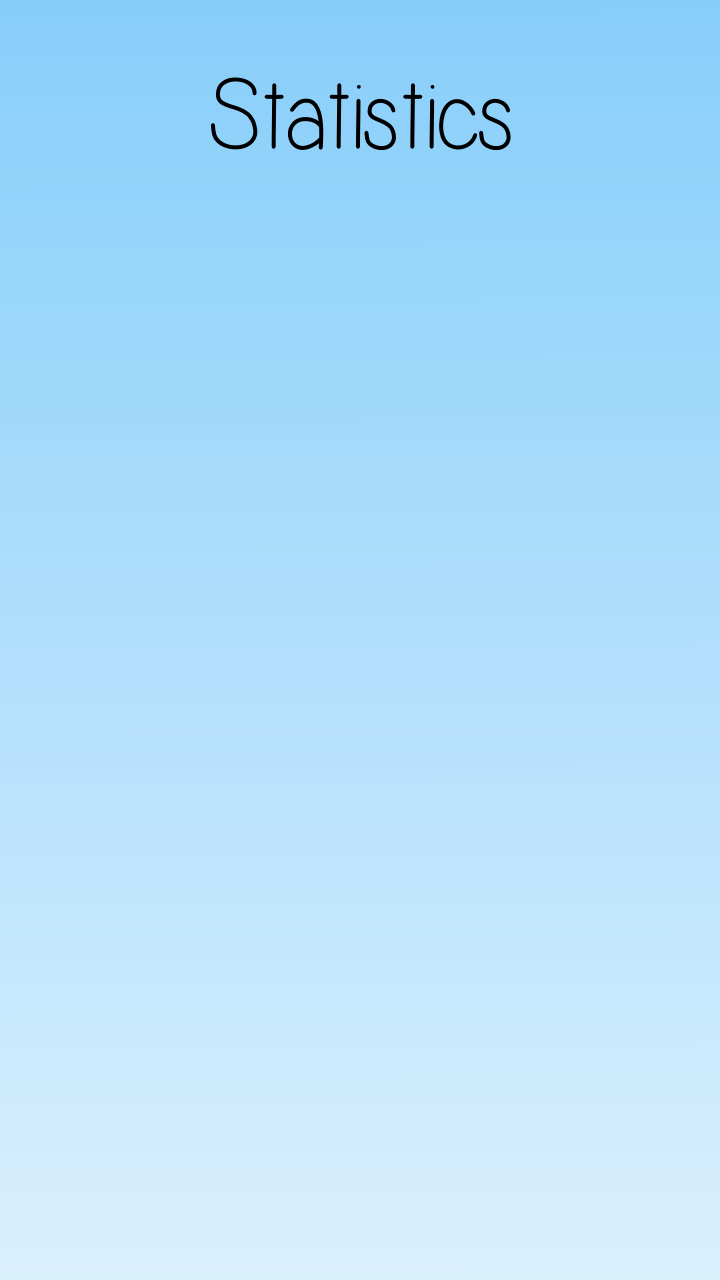
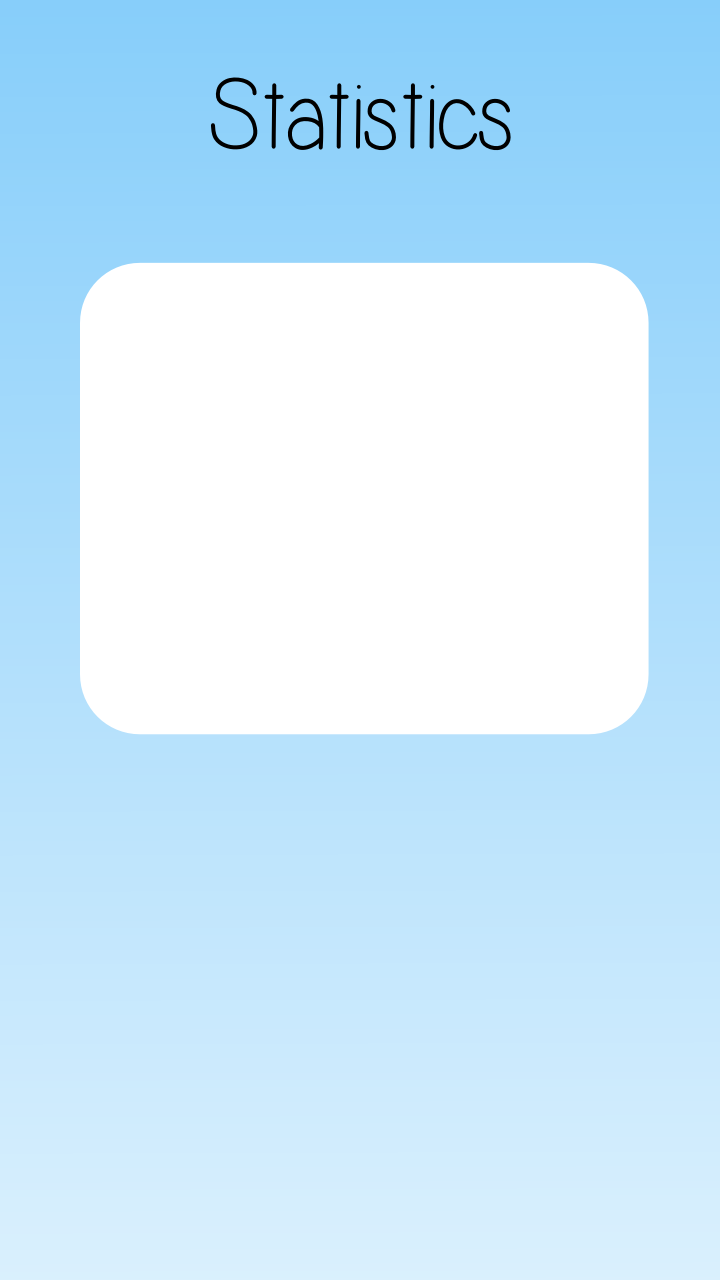
Mejorada statistics y shop scenes

Changed region(s): [[0.0917, 0.1875, 0.9167, 0.5938]]

diff --git a/ParachuteAction/src/com/lucianosimo/parachuteaction/manager/ResourcesManager.java b/ParachuteAction/src/com/lucianosimo/parachuteaction/manager/ResourcesManager.java
@@ -86,9 +86,9 @@ public class ResourcesManager {
 	
 	//Statistics items
 	public ITextureRegion statistics_background_region;
-	public ITextureRegion menu_from_statistics_region;
-	public ITextureRegion achievements_region;
-	public ITextureRegion resetStatistics_region;	
+	public ITextureRegion statistics_menu_button_region;
+	public ITextureRegion statistics_achievements_button_region;
+	public ITextureRegion statistics_reset_statistics_button_region;	
 	private BuildableBitmapTextureAtlas statisticsTextureAtlas;
 	private BuildableBitmapTextureAtlas backgroundStatisticsTextureAtlas;
 	
@@ -513,12 +513,12 @@ public class ResourcesManager {
 	private void loadStatisticsGraphics() {
 		BitmapTextureAtlasTextureRegionFactory.setAssetBasePath("gfx/statistics/");
 		backgroundStatisticsTextureAtlas = new BuildableBitmapTextureAtlas(activity.getTextureManager(), 720, 1280, TextureOptions.BILINEAR);
-		statisticsTextureAtlas = new BuildableBitmapTextureAtlas(activity.getTextureManager(), 500, 500, TextureOptions.BILINEAR);
+		statisticsTextureAtlas = new BuildableBitmapTextureAtlas(activity.getTextureManager(), 1024, 1024, TextureOptions.BILINEAR);
 		
 		statistics_background_region = BitmapTextureAtlasTextureRegionFactory.createFromAsset(backgroundStatisticsTextureAtlas, activity, "statistics_background.png");
-		menu_from_statistics_region = BitmapTextureAtlasTextureRegionFactory.createFromAsset(statisticsTextureAtlas, activity, "menu_button.png");
-		achievements_region = BitmapTextureAtlasTextureRegionFactory.createFromAsset(statisticsTextureAtlas, activity, "achievements_button.png");
-		resetStatistics_region = BitmapTextureAtlasTextureRegionFactory.createFromAsset(statisticsTextureAtlas, activity, "reset_statistics.png");
+		statistics_menu_button_region = BitmapTextureAtlasTextureRegionFactory.createFromAsset(statisticsTextureAtlas, activity, "statistics_menu_button.png");
+		statistics_achievements_button_region = BitmapTextureAtlasTextureRegionFactory.createFromAsset(statisticsTextureAtlas, activity, "statistics_achievements_button.png");
+		statistics_reset_statistics_button_region = BitmapTextureAtlasTextureRegionFactory.createFromAsset(statisticsTextureAtlas, activity, "statistics_reset_statistics_button.png");
 		
 		try {
 			this.statisticsTextureAtlas.build(new BlackPawnTextureAtlasBuilder<IBitmapTextureAtlasSource, BitmapTextureAtlas>(0, 1, 0));
@@ -545,15 +545,15 @@ public class ResourcesManager {
 		final ITexture antigravityCounterTexture = new BitmapTextureAtlas(activity.getTextureManager(), 256, 256, TextureOptions.BILINEAR_PREMULTIPLYALPHA);
 		final ITexture shieldCounterTexture = new BitmapTextureAtlas(activity.getTextureManager(), 256, 256, TextureOptions.BILINEAR_PREMULTIPLYALPHA);
 		final ITexture slowCounterTexture = new BitmapTextureAtlas(activity.getTextureManager(), 256, 256, TextureOptions.BILINEAR_PREMULTIPLYALPHA);
-		numberOfSuccessfulJumpsFont = FontFactory.createStrokeFromAsset(activity.getFontManager(), numberOfSuccessfulJumpsTexture, activity.getAssets(), "simple.ttf", 30, true, Color.BLACK_ARGB_PACKED_INT, 0.1f, Color.BLACK_ARGB_PACKED_INT);
-		numberOfUnsuccessfulJumpsFont = FontFactory.createStrokeFromAsset(activity.getFontManager(), numberOfUnsuccessfulJumpsTexture, activity.getAssets(), "simple.ttf", 30, true, Color.BLACK_ARGB_PACKED_INT, 0.1f, Color.BLACK_ARGB_PACKED_INT);
-		maxFliedMetersFont = FontFactory.createStrokeFromAsset(activity.getFontManager(), maxFliedMetersTexture, activity.getAssets(), "simple.ttf", 30, true, Color.BLACK_ARGB_PACKED_INT, 0.1f, Color.BLACK_ARGB_PACKED_INT);
-		freeFliedMetersFont  = FontFactory.createStrokeFromAsset(activity.getFontManager(), freeFliedMetersTexture, activity.getAssets(), "simple.ttf", 30, true, Color.BLACK_ARGB_PACKED_INT, 0.1f, Color.BLACK_ARGB_PACKED_INT);
-		parachuteFliedMetersFont = FontFactory.createStrokeFromAsset(activity.getFontManager(), parachuteFliedMetersTexture, activity.getAssets(), "simple.ttf", 30, true, Color.BLACK_ARGB_PACKED_INT, 0.1f, Color.BLACK_ARGB_PACKED_INT);
-		upperImpulseCounterFont = FontFactory.createStrokeFromAsset(activity.getFontManager(), upperImpulseCounterTexture, activity.getAssets(), "simple.ttf", 30, true, Color.BLACK_ARGB_PACKED_INT, 0.1f, Color.BLACK_ARGB_PACKED_INT); 
-		antigravityCounterFont = FontFactory.createStrokeFromAsset(activity.getFontManager(), antigravityCounterTexture, activity.getAssets(), "simple.ttf", 30, true, Color.BLACK_ARGB_PACKED_INT, 0.1f, Color.BLACK_ARGB_PACKED_INT);
-		shieldCounterFont = FontFactory.createStrokeFromAsset(activity.getFontManager(), shieldCounterTexture, activity.getAssets(), "simple.ttf", 30, true, Color.BLACK_ARGB_PACKED_INT, 0.1f, Color.BLACK_ARGB_PACKED_INT);
-		slowCounterFont = FontFactory.createStrokeFromAsset(activity.getFontManager(), slowCounterTexture, activity.getAssets(), "simple.ttf", 30, true, Color.BLACK_ARGB_PACKED_INT, 0.1f, Color.BLACK_ARGB_PACKED_INT);
+		numberOfSuccessfulJumpsFont = FontFactory.createStrokeFromAsset(activity.getFontManager(), numberOfSuccessfulJumpsTexture, activity.getAssets(), "simple.ttf", 45, true, Color.BLACK_ARGB_PACKED_INT, 0.1f, Color.BLACK_ARGB_PACKED_INT);
+		numberOfUnsuccessfulJumpsFont = FontFactory.createStrokeFromAsset(activity.getFontManager(), numberOfUnsuccessfulJumpsTexture, activity.getAssets(), "simple.ttf", 45, true, Color.BLACK_ARGB_PACKED_INT, 0.1f, Color.BLACK_ARGB_PACKED_INT);
+		maxFliedMetersFont = FontFactory.createStrokeFromAsset(activity.getFontManager(), maxFliedMetersTexture, activity.getAssets(), "simple.ttf", 45, true, Color.BLACK_ARGB_PACKED_INT, 0.1f, Color.BLACK_ARGB_PACKED_INT);
+		freeFliedMetersFont  = FontFactory.createStrokeFromAsset(activity.getFontManager(), freeFliedMetersTexture, activity.getAssets(), "simple.ttf", 45, true, Color.BLACK_ARGB_PACKED_INT, 0.1f, Color.BLACK_ARGB_PACKED_INT);
+		parachuteFliedMetersFont = FontFactory.createStrokeFromAsset(activity.getFontManager(), parachuteFliedMetersTexture, activity.getAssets(), "simple.ttf", 45, true, Color.BLACK_ARGB_PACKED_INT, 0.1f, Color.BLACK_ARGB_PACKED_INT);
+		upperImpulseCounterFont = FontFactory.createStrokeFromAsset(activity.getFontManager(), upperImpulseCounterTexture, activity.getAssets(), "simple.ttf", 45, true, Color.BLACK_ARGB_PACKED_INT, 0.1f, Color.BLACK_ARGB_PACKED_INT); 
+		antigravityCounterFont = FontFactory.createStrokeFromAsset(activity.getFontManager(), antigravityCounterTexture, activity.getAssets(), "simple.ttf", 45, true, Color.BLACK_ARGB_PACKED_INT, 0.1f, Color.BLACK_ARGB_PACKED_INT);
+		shieldCounterFont = FontFactory.createStrokeFromAsset(activity.getFontManager(), shieldCounterTexture, activity.getAssets(), "simple.ttf", 45, true, Color.BLACK_ARGB_PACKED_INT, 0.1f, Color.BLACK_ARGB_PACKED_INT);
+		slowCounterFont = FontFactory.createStrokeFromAsset(activity.getFontManager(), slowCounterTexture, activity.getAssets(), "simple.ttf", 45, true, Color.BLACK_ARGB_PACKED_INT, 0.1f, Color.BLACK_ARGB_PACKED_INT);
 		maxFliedMetersFont.load();
 		numberOfSuccessfulJumpsFont.load();
 		numberOfUnsuccessfulJumpsFont.load();
@@ -709,7 +709,7 @@ public class ResourcesManager {
 	private void loadShopFonts() {
 		FontFactory.setAssetBasePath("font/shop/");
 		final ITexture coinsTexture = new BitmapTextureAtlas(activity.getTextureManager(), 256, 256, TextureOptions.BILINEAR_PREMULTIPLYALPHA);
-		shopCoinsFont = FontFactory.createStrokeFromAsset(activity.getFontManager(), coinsTexture, activity.getAssets(), "simple.ttf", 35, true, Color.BLACK_ARGB_PACKED_INT, 0.1f, Color.BLACK_ARGB_PACKED_INT);
+		shopCoinsFont = FontFactory.createStrokeFromAsset(activity.getFontManager(), coinsTexture, activity.getAssets(), "simple.ttf", 45, true, Color.BLACK_ARGB_PACKED_INT, 0.1f, Color.BLACK_ARGB_PACKED_INT);
 		shopCoinsFont.load();
 	}
 	

diff --git a/ParachuteAction/src/com/lucianosimo/parachuteaction/scene/StatisticsScene.java b/ParachuteAction/src/com/lucianosimo/parachuteaction/scene/StatisticsScene.java
@@ -79,9 +79,9 @@ public class StatisticsScene extends BaseScene implements IOnMenuItemClickListen
 		slowText = new Text(20, 430, resourcesManager.slowCounterFont, "Slowobjectscollected: 0123456789", new TextOptions(HorizontalAlign.LEFT), vbom);
 		loadSavedPreferences();
 		
-		final IMenuItem menuButtonItem = new ScaleMenuItemDecorator(new SpriteMenuItem(STATISTICS_MENU, resourcesManager.menu_from_statistics_region, vbom), 1.2f, 1);
-		final IMenuItem achivementsButtonItem = new ScaleMenuItemDecorator(new SpriteMenuItem(STATISTICS_ACHIVEMENTS, resourcesManager.achievements_region, vbom), 1.2f, 1);
-		final IMenuItem resetStatisticsItem = new ScaleMenuItemDecorator(new SpriteMenuItem(RESET_STATISTICS, resourcesManager.resetStatistics_region, vbom), 1.2f, 1);
+		final IMenuItem menuButtonItem = new ScaleMenuItemDecorator(new SpriteMenuItem(STATISTICS_MENU, resourcesManager.statistics_menu_button_region, vbom), 1.2f, 1);
+		final IMenuItem achivementsButtonItem = new ScaleMenuItemDecorator(new SpriteMenuItem(STATISTICS_ACHIVEMENTS, resourcesManager.statistics_achievements_button_region, vbom), 1.2f, 1);
+		final IMenuItem resetStatisticsItem = new ScaleMenuItemDecorator(new SpriteMenuItem(RESET_STATISTICS, resourcesManager.statistics_reset_statistics_button_region, vbom), 1.2f, 1);
 
 		statisticsChildScene = new MenuScene(camera);
 		statisticsChildScene.setPosition(screenWidth/2, screenHeight/2);
@@ -102,17 +102,17 @@ public class StatisticsScene extends BaseScene implements IOnMenuItemClickListen
 		statisticsChildScene.attachChild(shieldText);
 		statisticsChildScene.attachChild(slowText);
 		
-		menuButtonItem.setPosition(-150, -350);
-		achivementsButtonItem.setPosition(150, -350);
-		resetStatisticsItem.setPosition(0, -210);
-		numberOfSuccessfulJumpsText.setPosition(0, 220);
-		numberOfUnsuccessfulJumpsText.setPosition(0, 180);
-		freeFliedMetersText.setPosition(0, 140);
-		parachuteFliedMetersText.setPosition(0, 100);
-		upperImpulseText.setPosition(0, 60);
-		antigravityText.setPosition(0, 20);
-		shieldText.setPosition(0, -20);
-		slowText.setPosition(0, -60);		
+		menuButtonItem.setPosition(-200, -500);
+		achivementsButtonItem.setPosition(200, -500);
+		resetStatisticsItem.setPosition(0, -250);
+		numberOfSuccessfulJumpsText.setPosition(0, 300);
+		numberOfUnsuccessfulJumpsText.setPosition(0, 255);
+		freeFliedMetersText.setPosition(0, 210);
+		parachuteFliedMetersText.setPosition(0, 165);
+		upperImpulseText.setPosition(0, 120);
+		antigravityText.setPosition(0, 75);
+		shieldText.setPosition(0, 30);
+		slowText.setPosition(0, -15);		
 		
 		statisticsChildScene.setOnMenuItemClickListener(this);
 		setChildScene(statisticsChildScene);

diff --git a/ParachuteAction/src/com/lucianosimo/parachuteaction/scene/ShopScene.java b/ParachuteAction/src/com/lucianosimo/parachuteaction/scene/ShopScene.java
@@ -97,8 +97,8 @@ public class ShopScene extends BaseScene implements IOnMenuItemClickListener{
 		menuChildScene.buildAnimations();
 		menuChildScene.setBackgroundEnabled(false);
 		
-		menuButtonItem.setPosition(-150, -350);
-		coinsText.setPosition(300, 250);
+		menuButtonItem.setPosition(-200, -500);
+		coinsText.setPosition(0, 300);
 		
 		menuChildScene.setOnMenuItemClickListener(this);
 		setChildScene(menuChildScene);
@@ -145,14 +145,14 @@ public class ShopScene extends BaseScene implements IOnMenuItemClickListener{
 	}
 	
 	private void loadLocations() {
-		desert = new Sprite(-140, 0, resourcesManager.shop_desert_region, vbom);		
-		mountain = new Sprite(0, 0, resourcesManager.shop_mountain_region, vbom);
-		western = new Sprite(140, 0, resourcesManager.shop_western_region, vbom);
+		desert = new Sprite(-215, 25, resourcesManager.shop_desert_region, vbom);		
+		mountain = new Sprite(0, 25, resourcesManager.shop_mountain_region, vbom);
+		western = new Sprite(215, 25, resourcesManager.shop_western_region, vbom);
 		menuChildScene.attachChild(desert);
 		menuChildScene.attachChild(mountain);
 		menuChildScene.attachChild(western);
 		if (!unlockedDesert) {
-			lockedDesert = new Sprite(62, 87, resourcesManager.shop_locked_location_region, vbom) {
+			lockedDesert = new Sprite(100, 140, resourcesManager.shop_locked_location_region, vbom) {
 				@Override
 				public boolean onAreaTouched(TouchEvent pSceneTouchEvent, float pTouchAreaLocalX, float pTouchAreaLocalY) {
 					if (pSceneTouchEvent.isActionDown()) {
@@ -170,7 +170,7 @@ public class ShopScene extends BaseScene implements IOnMenuItemClickListener{
 			menuChildScene.registerTouchArea(lockedDesert);
 		}
 		if (!unlockedMountain) {
-			lockedMountain = new Sprite(62, 87, resourcesManager.shop_locked_location_region, vbom) {
+			lockedMountain = new Sprite(100, 140, resourcesManager.shop_locked_location_region, vbom) {
 				@Override
 				public boolean onAreaTouched(TouchEvent pSceneTouchEvent, float pTouchAreaLocalX, float pTouchAreaLocalY) {
 					if (pSceneTouchEvent.isActionDown()) {
@@ -188,7 +188,7 @@ public class ShopScene extends BaseScene implements IOnMenuItemClickListener{
 			menuChildScene.registerTouchArea(lockedMountain);
 		}
 		if (!unlockedwestern) {
-			lockedwestern = new Sprite(62, 87, resourcesManager.shop_locked_location_region, vbom) {
+			lockedwestern = new Sprite(100, 140, resourcesManager.shop_locked_location_region, vbom) {
 				@Override
 				public boolean onAreaTouched(TouchEvent pSceneTouchEvent, float pTouchAreaLocalX, float pTouchAreaLocalY) {
 					if (pSceneTouchEvent.isActionDown()) {
